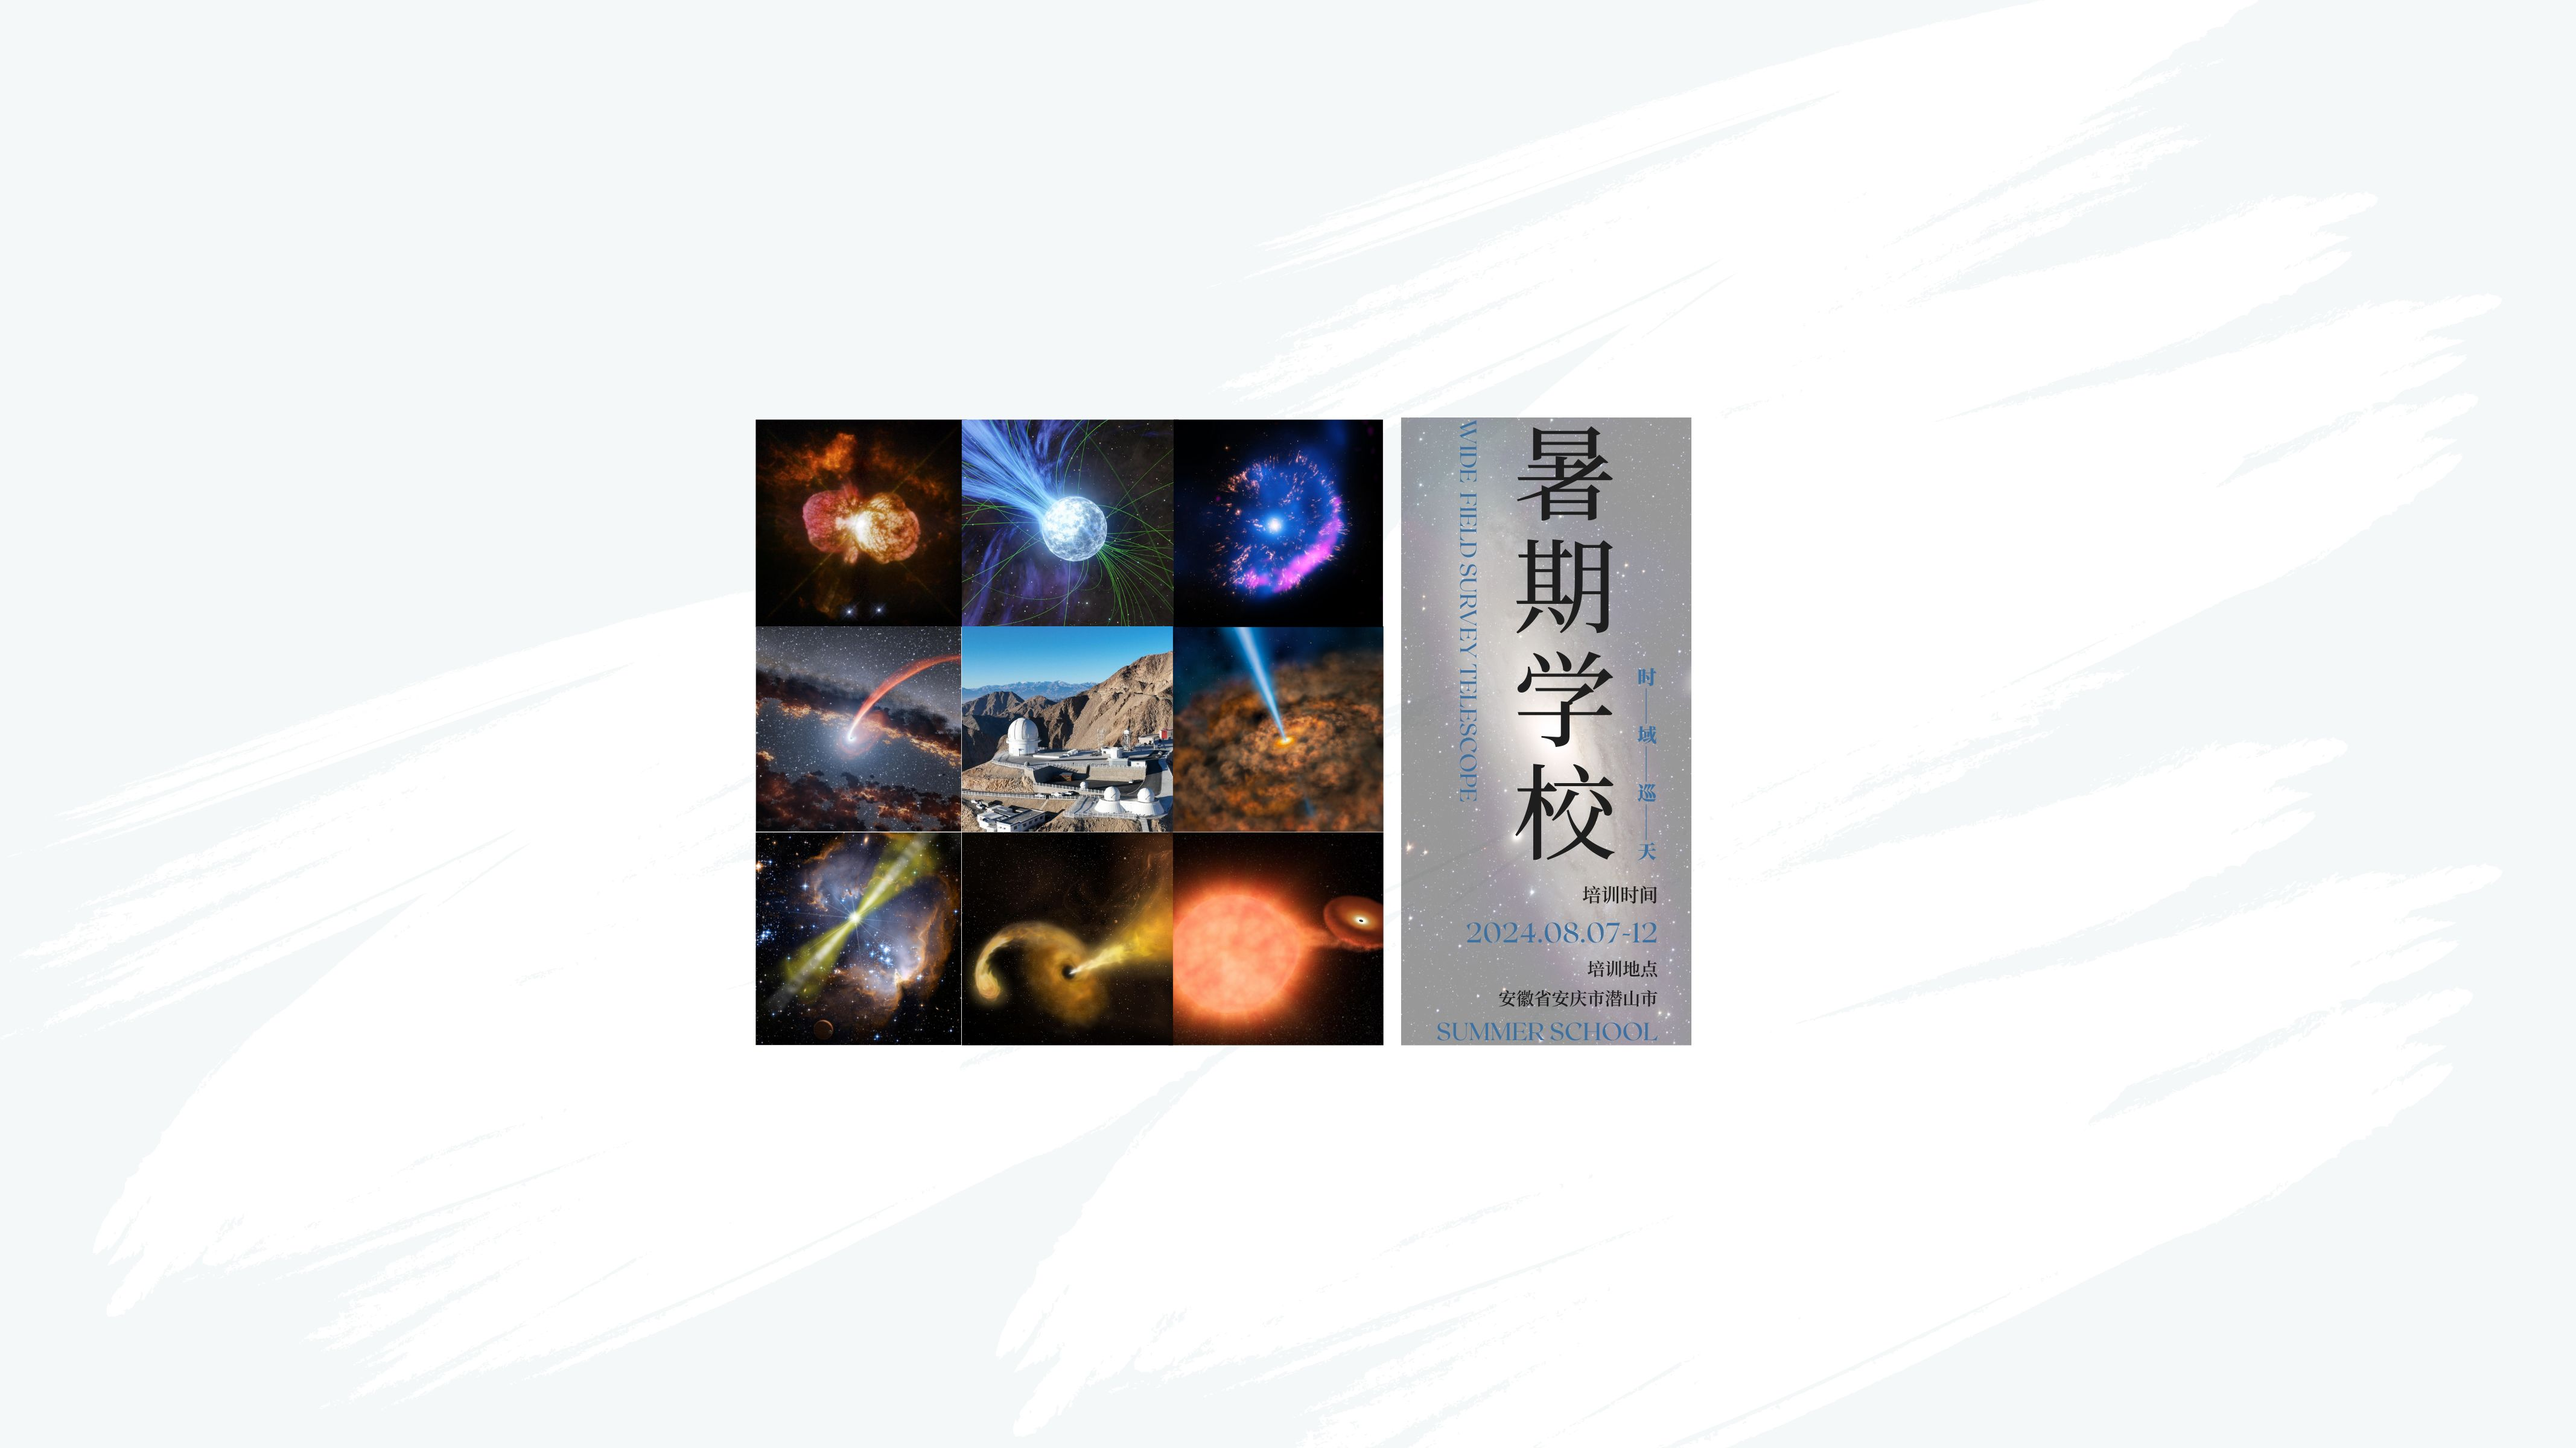
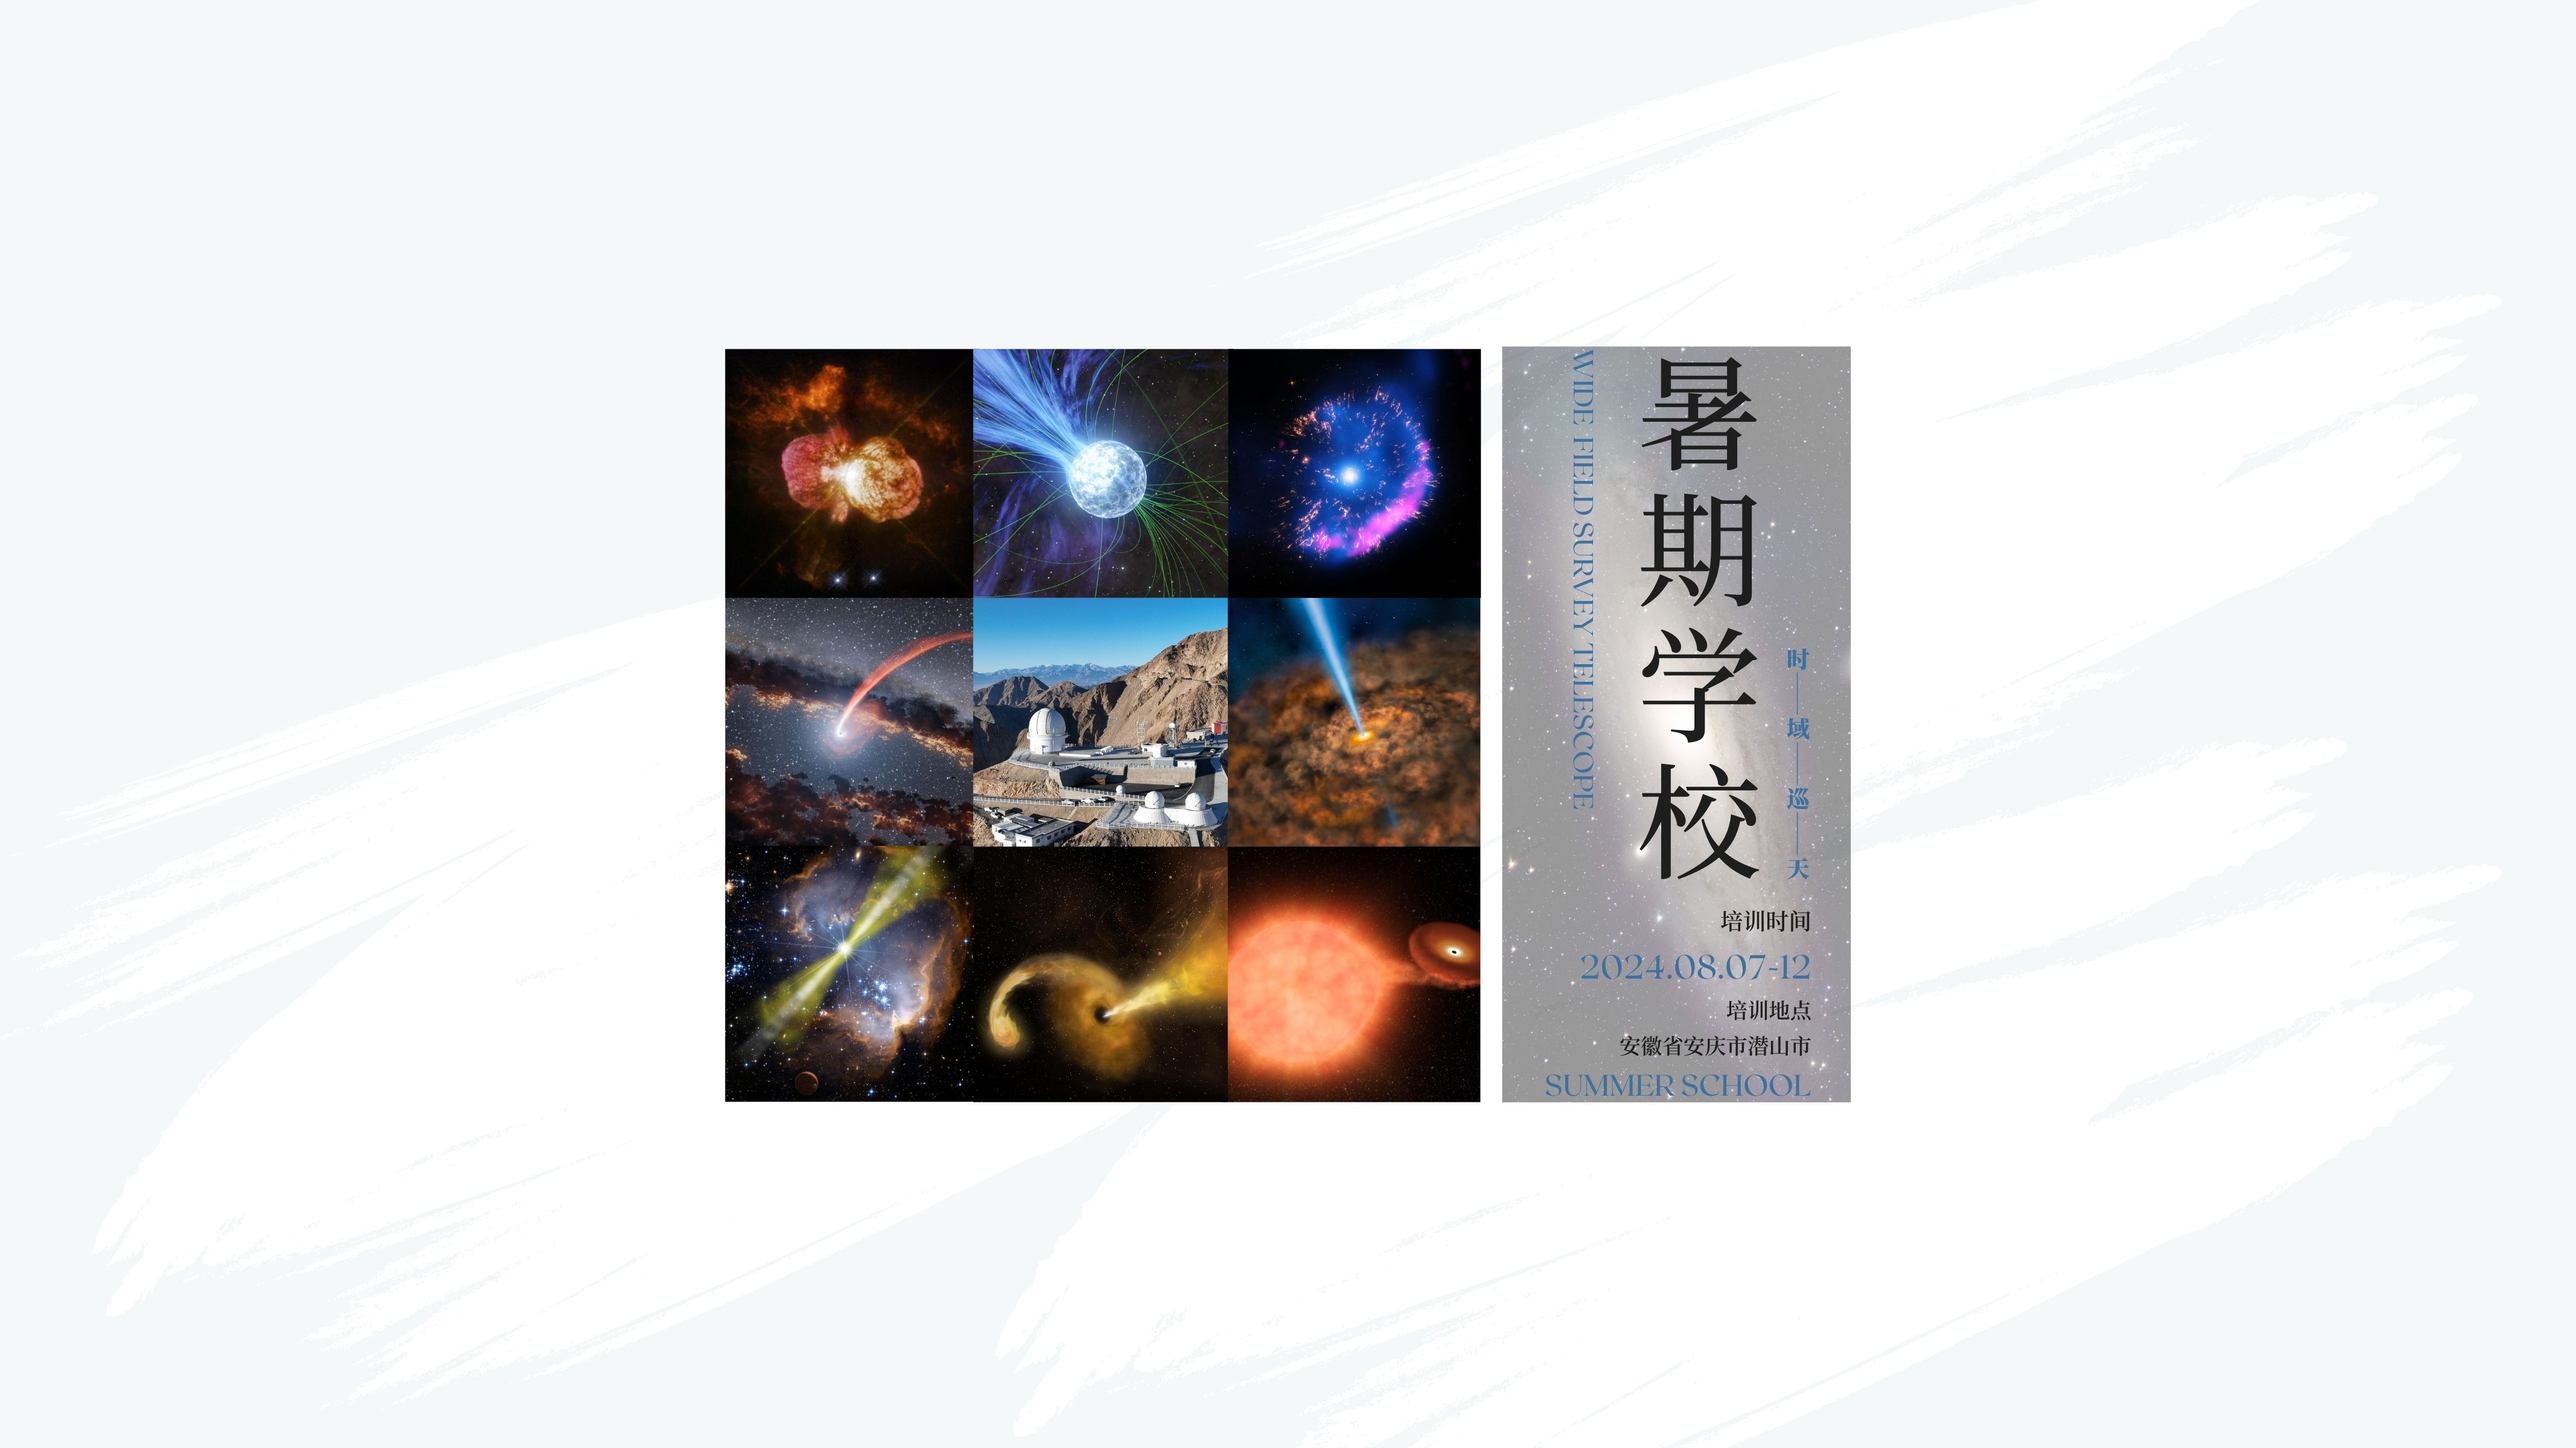
add summer_school, some changes

Changed region(s): [[0.2804, 0.2188, 0.7166, 0.7812]]

diff --git a/content/chinese/education-and-outreach/summer_school.md b/content/chinese/education-and-outreach/summer_school.md
@@ -16,19 +16,18 @@ bg_image: "images/education/summer_school_2.jpg"
 <br></br>
 
 
-<p class="f12">培训时间：2024年8月7日（下午）报到，8月8日-8月12日上课，8月12日下午颁发结业证书并离校。</p>
+<p class="f12"><b>培训时间：</b>2024年8月7日（下午）报到，8月8日-8月12日上课，8月12日下午颁发结业证书并离校。</p>
 
-<p class="f12">培训地点：安徽省安庆市潜山市</p>
+<p class="f12"><b>培训地点：</b>安徽省安庆市潜山市</p>
 
-<p class="f12">注册费：1500元/人</p>
+<p class="f12"><b>注册费：</b>1500元/人</p>
 
 
-<p class="f12">交通：校方将提供潜山火车站往返酒店的大巴车</p>
+<p class="f12"><b>交通：</b>校方将提供潜山火车站往返酒店的大巴车</p>
 
 <br></br>
 
-#### 授课老师（按姓氏拼音首字母排序）
-<br></br>
+#### <p class="f12"><b>授课老师（按姓氏拼音首字母排序）</b></p>
 
 <li> 安涛（中国科学院上海天文台） </li>
 
@@ -97,7 +96,8 @@ bg_image: "images/education/summer_school_2.jpg"
 <br></br>
 <br></br>
 
-#### 联系人及联系方式：
+
+#### <p class="f12"><b>联系人及联系方式：</b></p>
 
 <p style="width:100%;">
   <p class="f12 indent" >
@@ -108,13 +108,15 @@ bg_image: "images/education/summer_school_2.jpg"
     </p>
 </p>
 
-#### 扫码报名：
+#### <p class="f12"><b>扫码报名：</b></p>
+
 
 <center><img src="/images/education/summer_school_qr_code.jpg" width="30%" /></center>
 
 <br></br>
 
-#### 培训酒店地址
+#### <p class="f12"><b>培训酒店地址：</b></p>
+
 <li>潜山全力国际大酒店</li>
 
 <center><iframe style="width: 100%;" height="430" frameborder="0" scrolling="no" marginheight="0" marginwidth="0" id="gmap_canvas" src="https://uri.amap.com/marker?position=116.456225,30.7261629&name=全力古井国际大酒店&src=mypage&coordinate=gaode&callnative=0"></iframe>
